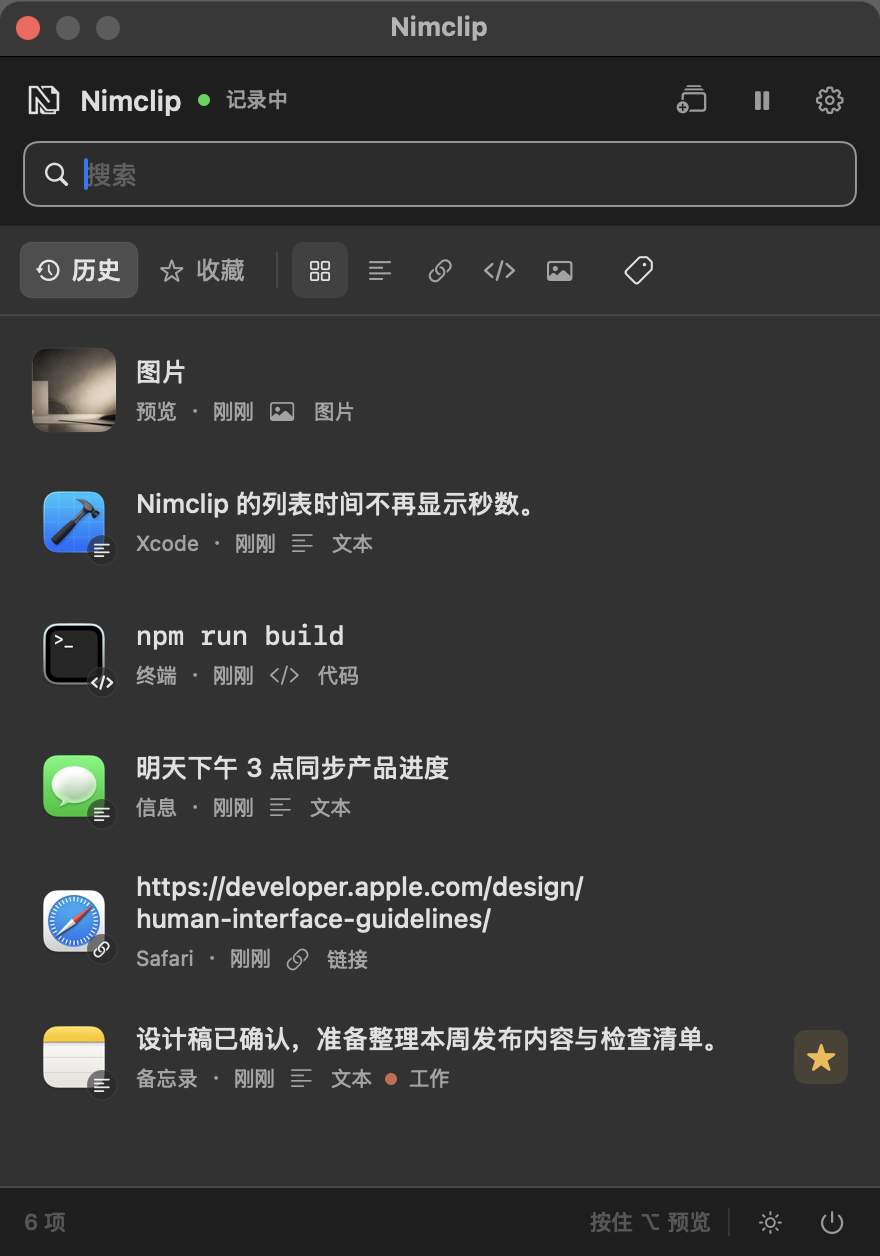
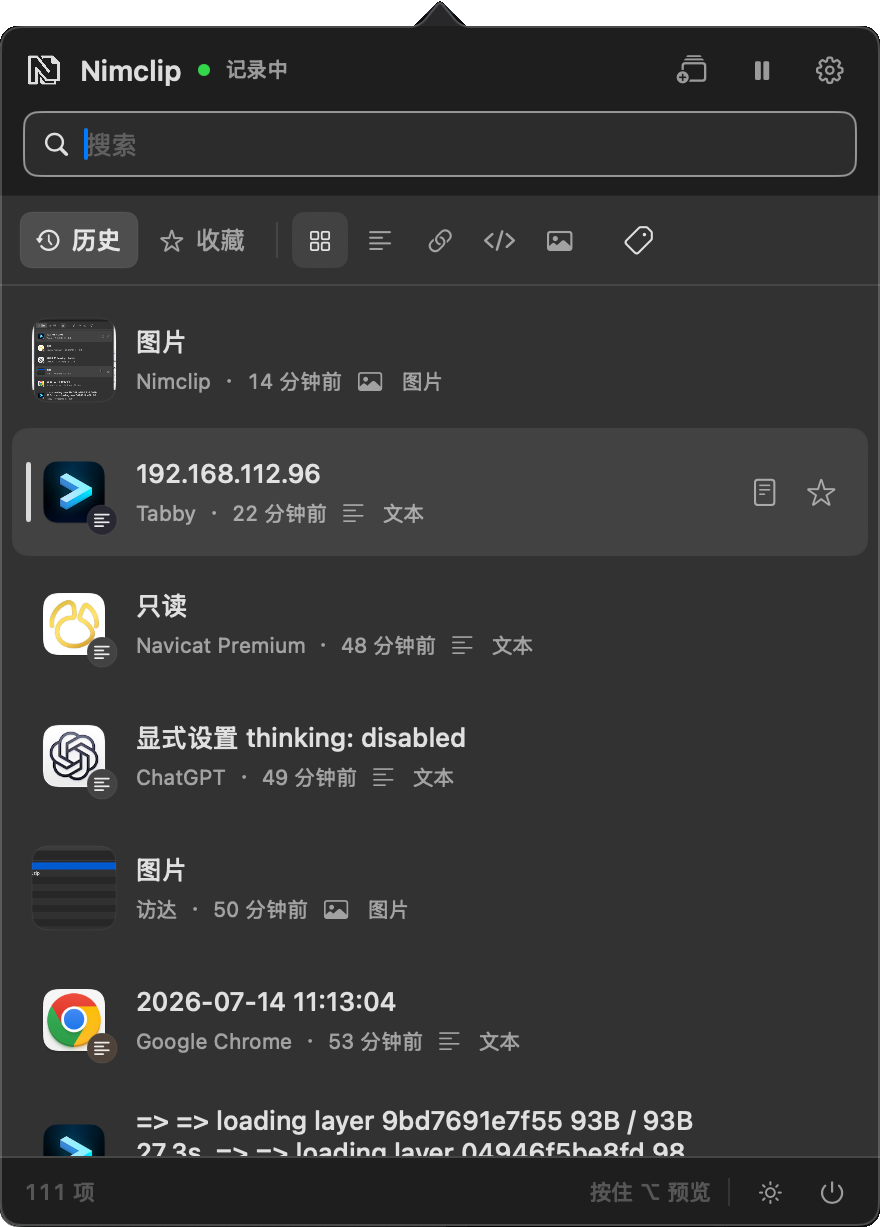
docs: use real clipboard data in screenshots

diff --git a/README.md b/README.md
@@ -15,7 +15,7 @@
   <img src="./docs/images/nimclip-main-real.png" width="520" alt="真实运行中的 Nimclip 主窗口">
 </p>
 
-<p align="center"><sub>真实 Nimclip 窗口截图 · 仅使用隔离的安全演示数据 · 未截取其他应用</sub></p>
+<p align="center"><sub>Nimclip 主程序真实截图 · 使用本机实际剪贴板历史 · 未截取背景应用</sub></p>
 
 Nimclip 安静地常驻在菜单栏。按下 <kbd>⌘</kbd> <kbd>⇧</kbd> <kbd>V</kbd>，刚刚复制过的文字、链接、代码和图片会立即回到眼前；搜索、选择，然后继续手头的工作。
 
@@ -27,7 +27,7 @@ Nimclip 安静地常驻在菜单栏。按下 <kbd>⌘</kbd> <kbd>⇧</kbd> <kbd>
 | --- | --- | --- |
 | 全局快捷键随时唤起，支持即时搜索 | 保留原始格式，也可以一键转为纯文本 | 收藏重要内容，创建标签分类 |
 | 按文字、链接、代码、图片快速筛选 | 多条内容按所选顺序合并复制或粘贴 | 默认保留 500 条、7 天，均可调整 |
-| 显示来源应用名称与图标 | 完全相同的内容与格式自动去重 | 浅色与深色独立控制，不跟随系统切换 |
+| 显示来源应用名称与图标 | 完全相同的内容与格式自动去重 | 首次随系统外观，也可固定浅色或深色 |
 
 - **原生而克制**：使用 SwiftUI 与 AppKit 构建，交互贴近 macOS，不做网页式仪表盘。
 - **完整预览**：按住 `Option` 悬停记录即可展开完整内容；长文本可以滚动，鼠标可以进入预览窗口继续操作。
@@ -40,7 +40,11 @@ Nimclip 安静地常驻在菜单栏。按下 <kbd>⌘</kbd> <kbd>⇧</kbd> <kbd>
 
 图片记录会在列表中显示真实缩略图。打开预览后，可以在独立窗口中查看完整图片；文字记录同样支持按住 `Option` 展开，长内容可以滚动，鼠标也可以进入预览窗口继续操作。
 
-![真实运行中的 Nimclip 图片预览窗口](./docs/images/nimclip-image-preview-real.jpg)
+<p align="center">
+  <img src="./docs/images/nimclip-image-preview-real.png" width="780" alt="使用真实剪贴板图片的 Nimclip 图片预览窗口">
+</p>
+
+<p align="center"><sub>来自 Nimclip 实际历史记录的图片预览 · 来源图标与图片内容均为真实数据</sub></p>
 
 ## 浅色和深色，由你决定
 